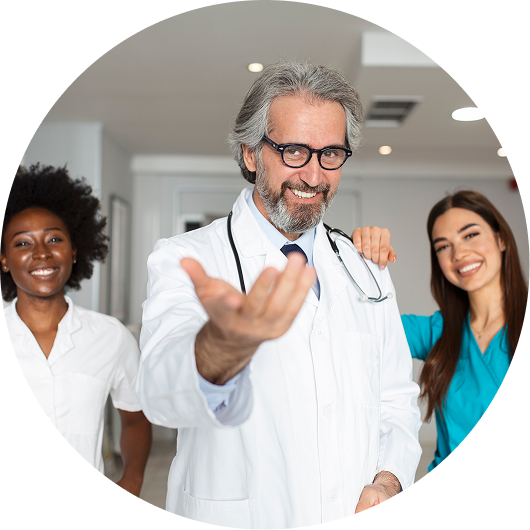
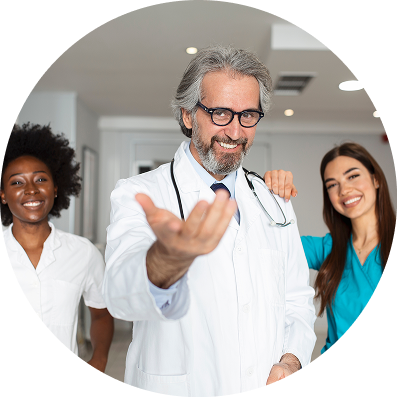
hero images fixed

diff --git a/app/services copy/page.js b/app/services copy/page.js
@@ -1,31 +1,31 @@
 import MainFooter from "@/components/MainFooter";
 import PageHeader from "@/components/PageHeader";
 import Link from 'next/link';
-import TechTalents from "@/components/homeRD/techTalents";
+import NewServices from "@/components/homeRD/newservices";
 
-export default function TechTalentsPage() {
+export default function Services() {
   return (
-    <main className="relative overflow-hidden overflow-y-hidden">
+    <main className="relative overflow-hidden overflow-y-hidden ">
       <PageHeader>
-        <div className="max-w-7xl mx-auto px-4 lg:flex h-[100%]  items-center ">
+        <div className="max-w-7xl mx-auto px-4 lg:flex mt-0 lg:mt-12 h-[100%] items-center ">
           {/* Left Column */}
           <div className="lg:w-[55%] flex flex-col space-y-8 py-20">
             <h1 className="text-4xl md:text-6xl font-bold text-white leading-snug">
-              Build the Future with Agile, Technical Talent
+              Your Strategic Partner for <span className="text-[#FFB300]">Industry-Specific Talents</span>
             </h1>
             
             <a 
               href="/request-talent" 
               className="bg-[#F99621] hover:bg-white text-[#121212] px-[63px] py-[23px] transition duration-300 w-fit"
             >
-              Hire Talent
+              Explore Talent
             </a>
           </div>
 
           {/* Right Column - Map */}
-          <div className="hidden lg:block absolute bottom-0 right-4 lg:w-[45%] ">
+          <div className="hidden lg:block lg:w-[45%] absolute bottom-[-1px] right-4 pl-0">
             <img
-                    src="/redesign-25/tech-header.png"
+                    src="/redesign-25/newservice-header.gif"
                     alt="Success Stories"
                     className="w-full h-[500px] object-contain"
                 />
@@ -33,7 +33,7 @@ export default function TechTalentsPage() {
         </div>
       </PageHeader>
 
-      <TechTalents />
+      <NewServices />
 
       <section className="px-[10px] md:px-0 bg-[#131313]">
         <MainFooter />

diff --git a/app/services copy/layout.js b/app/services copy/layout.js
@@ -1,0 +1,38 @@
+// import './globals.css'
+import '../globals.css'
+import { Montserrat } from 'next/font/google'
+import SocialMedia from '@/components/SocialMedia'
+
+const montserrat = Montserrat({ subsets: ['latin'] })
+
+export const metadata = {
+  title: 'Services | AllTalentz',
+  description: 'AllTalentz delivers expert, vetted talent solutions tailored to the unique demands of Technology, Healthcare, Finance, and Remediation. Scale your operations with our trained professionals.',
+}
+
+
+export default function RootLayout({ children }) {
+  return (
+    <html lang="en">
+        <head>
+          <link rel="canonical" href="https://alltalentz.com/services-copy" />
+          <meta
+            property="og:image"
+            content="/alltalentz-homebg.jpg"
+          />
+          <meta name="google-site-verification" content="lYMDAYOc3Se9uAkUoehfNd6vA7MfyKMJtvNc8gKOAQo" />
+          <meta name="description" content="Learn more about Alltalentz and what we do | Your Gateway to Africa's Leading Remote Professionals | Superior Workforce Value" />
+        </head>
+      
+      
+    <body className={montserrat.className}>
+      <SocialMedia/>
+
+      <main className=''>
+        {/* <Header/> */}
+        {children}
+      </main>
+    </body>
+  </html>
+  )
+}

diff --git a/app/services/page.js b/app/services/page.js
@@ -7,10 +7,10 @@ export default function Services() {
   return (
     <main className="relative overflow-hidden overflow-y-hidden ">
       <PageHeader>
-        <div className="max-w-7xl mx-auto px-4 lg:flex h-[100%] items-center ">
+        <div className="max-w-7xl mx-auto px-4 lg:flex mt-0 lg:mt-12 h-[100%] items-center ">
           {/* Left Column */}
           <div className="lg:w-[55%] flex flex-col space-y-8 py-20">
-            <h1 className="text-4xl md:text-6xl font-bold text-white leading-tight">
+            <h1 className="text-4xl md:text-6xl font-bold text-white leading-snug">
               Your Strategic Partner for <span className="text-[#FFB300]">Industry-Specific Talents</span>
             </h1>
             
@@ -25,7 +25,7 @@ export default function Services() {
           {/* Right Column - Map */}
           <div className="hidden lg:block lg:w-[45%] absolute bottom-[-1px] right-4 pl-0">
             <img
-                    src="/redesign-25/newservice-header.png"
+                    src="/redesign-25/service-header.png"
                     alt="Success Stories"
                     className="w-full h-[500px] object-contain"
                 />

diff --git a/app/finance-talents/page.js b/app/finance-talents/page.js
@@ -11,7 +11,7 @@ export default function FinanceTalentsPage() {
         <div className="max-w-7xl mx-auto px-4 lg:flex relative h-[100%] items-center py-20">
           {/* Left Column */}
           <div className="lg:w-[60%] flex flex-col space-y-8">
-            <h1 className="text-4xl md:text-6xl font-bold text-white leading-tight">
+            <h1 className="text-4xl md:text-6xl font-bold text-white leading-snug">
               Secure, Scale, and Succeed with Financial Operations Talent
             </h1>
             

diff --git a/app/remediation-talents/page.js b/app/remediation-talents/page.js
@@ -11,7 +11,7 @@ export default function HealthcareTalentsPage() {
         <div className="max-w-7xl mx-auto px-4 lg:flex relative h-[100%] items-center py-20">
           {/* Left Column */}
           <div className="lg:w-[60%] flex flex-col space-y-8">
-            <h1 className="text-4xl md:text-6xl font-bold text-white leading-tight">
+            <h1 className="text-4xl md:text-6xl font-bold text-white leading-snug">
               Rebuild and Restore with Certified Project Expertise.
             </h1>
             

diff --git a/app/healthcare-talents/page.js b/app/healthcare-talents/page.js
@@ -11,7 +11,7 @@ export default function HealthcareTalentsPage() {
         <div className="max-w-7xl mx-auto px-4 lg:flex relative h-[100%] items-center py-20">
           {/* Left Column */}
           <div className="lg:w-[60%] flex flex-col space-y-8">
-            <h1 className="text-4xl md:text-6xl font-bold text-white leading-tight">
+            <h1 className="text-4xl md:text-6xl font-bold text-white leading-snug">
               Navigate Complexity with Compliant, Precision Talent
             </h1>
             

diff --git a/app/legal-talents/page.js b/app/legal-talents/page.js
@@ -11,7 +11,7 @@ export default function HealthcareTalentsPage() {
         <div className="max-w-7xl mx-auto px-4 lg:flex relative h-[100%] items-center py-20">
           {/* Left Column */}
           <div className="lg:w-[60%] flex flex-col space-y-8">
-            <h1 className="text-4xl md:text-6xl font-bold text-white leading-tight">
+            <h1 className="text-4xl md:text-6xl font-bold text-white leading-snug">
               Enhance Your Practice with Compliant Legal Support.
             </h1>
             
